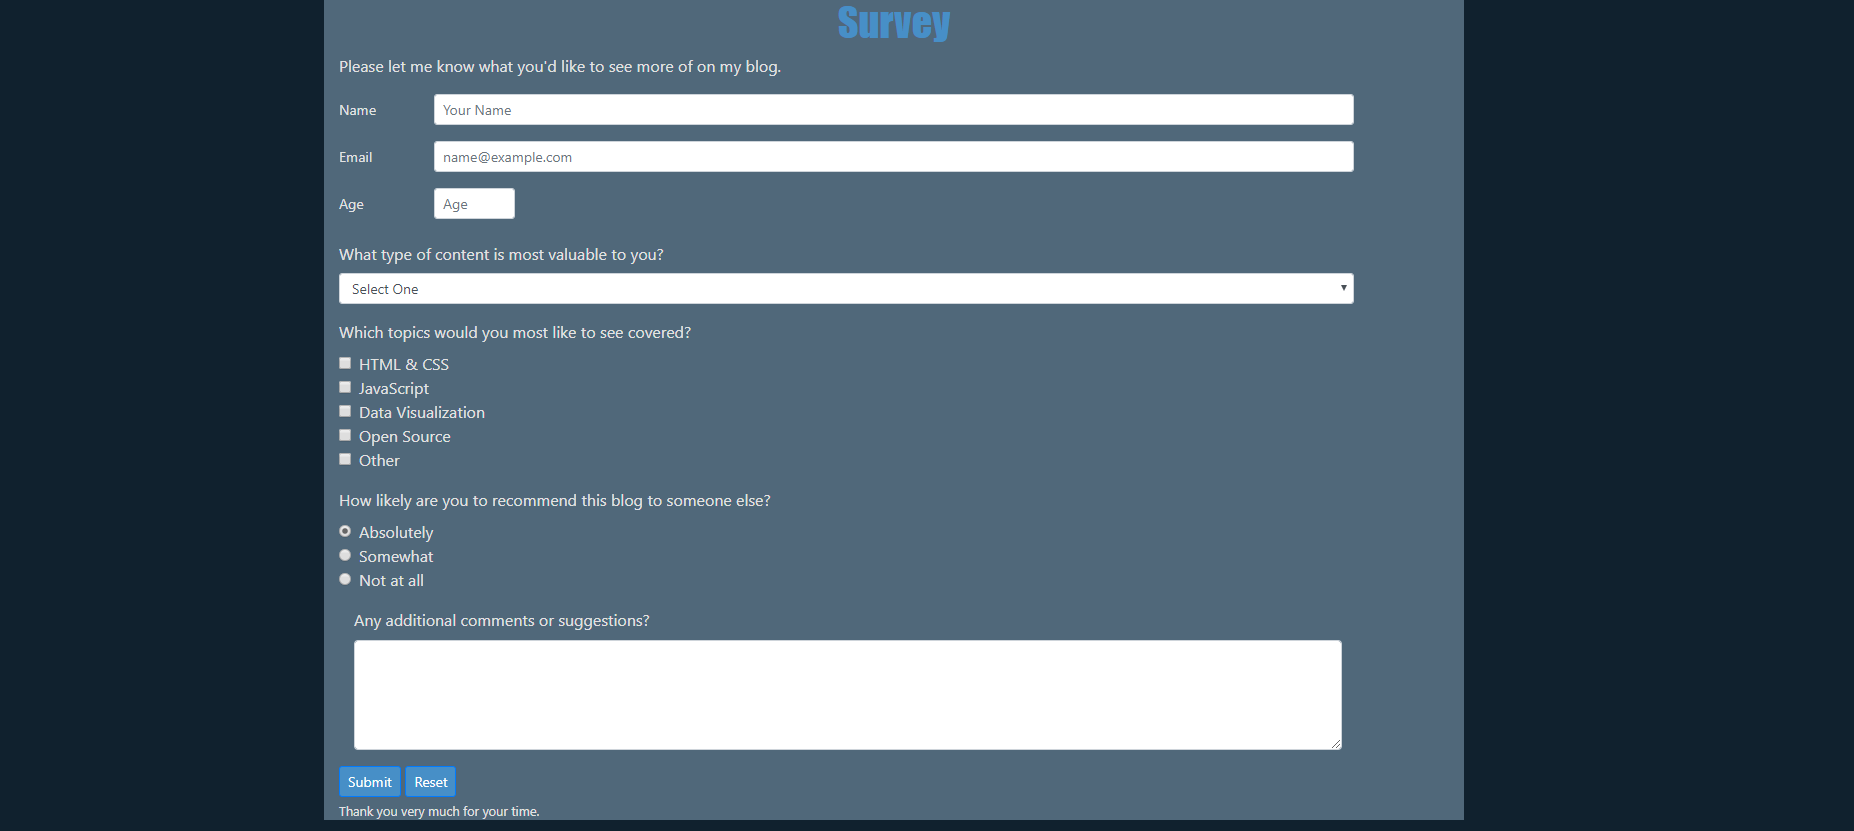
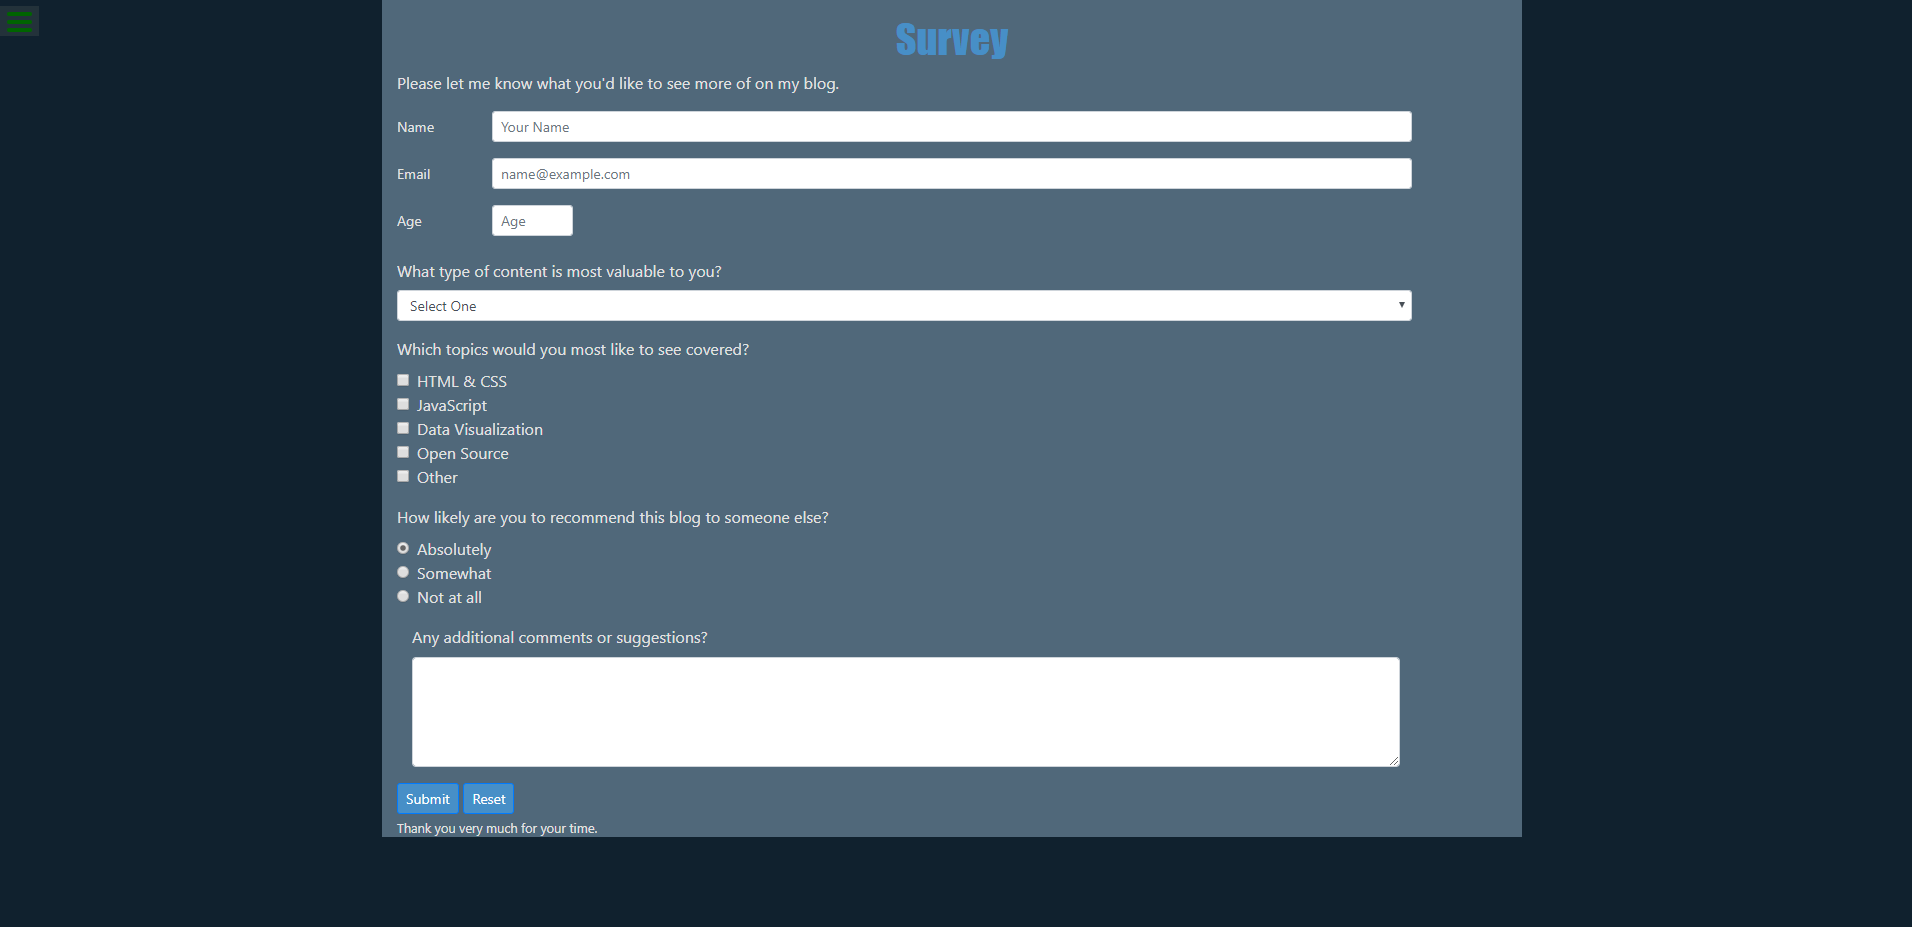
Added links in project section

Changed region(s): [[0.1537, 0.0, 0.7994, 0.9928], [0.4304, 0.0, 0.5534, 0.0602], [0.0, 0.0, 0.0307, 0.0301]]

diff --git a/index.html b/index.html
@@ -43,32 +43,32 @@
 <!-- Projects section -->
 <div class="container" id="projects">
   <h2>Projects</h2>
-  <div class="row">
+  <div class="row" id="row1">
       <div class="col-sm-6">
           <figure>
-            <img src="images/tributePage.png" class="img-thumbnail">
-          </figure>
+            <a href="https://solitaryblue.github.io/FCCTributePage/" target="_blank"><img src="images/tributePage.png" class="img-thumbnail project-tile">
+          </figure></a>
         <figcaption>Tribute Page</figcaption>
         </div>
         <div class="col-sm-6">
           <figure>
-              <img src="images/survey.png" class="img-thumbnail">
-            </figure>
+              <a href="https://solitaryblue.github.io/FCCSurveyForm/" target="_blank"><img src="images/survey.png" class="img-thumbnail project-tile">
+            </figure></a>
           <figcaption>Survey Form</figcaption>
         </div>
   <!-- end row -->
   </div>
-  <div class="row">
+  <div class="row" id="row2">
       <div class="col-sm-6">
           <figure>
-            <img src="images/landingPage.png" class="img-thumbnail">
-          </figure>
+            <a href="https://solitaryblue.github.io/FCCLandingPage/" target="_blank"><img src="images/landingPage.png" class="img-thumbnail project-tile">
+          </figure></a>
         <figcaption>Landing Page</figcaption>
         </div>
         <div class="col-sm-6">
           <figure>
-              <img src="images/documentationPage.png" class="img-thumbnail">
-            </figure>
+              <a href="https://solitaryblue.github.io/FCCDocumentationPage/" target="_blank"><img src="images/documentationPage.png" class="img-thumbnail project-tile">
+            </figure></a>
           <figcaption>Documentation Page</figcaption>
         </div>
   <!-- end row -->

diff --git a/stylesheet.css b/stylesheet.css
@@ -55,3 +55,29 @@
     text-align: center;
     padding-bottom: 1rem;
 }
+#row1 {
+    padding-bottom: 4rem;
+}
+
+.img-thumbnail {
+    display: block;
+    max-width: 400px;
+    max-height: 400px;
+    width: auto;
+    height: auto;
+}
+
+figcaption {
+    position: relative;
+    bottom: 0;
+    display: block;
+    max-width: 400px;
+    max-height: 400px;
+    width: auto;
+    height: auto;
+    color: white;
+    background-color: #333333;
+    text-align: center;
+    text-transform: uppercase;
+    font-size: 1rem;
+}
